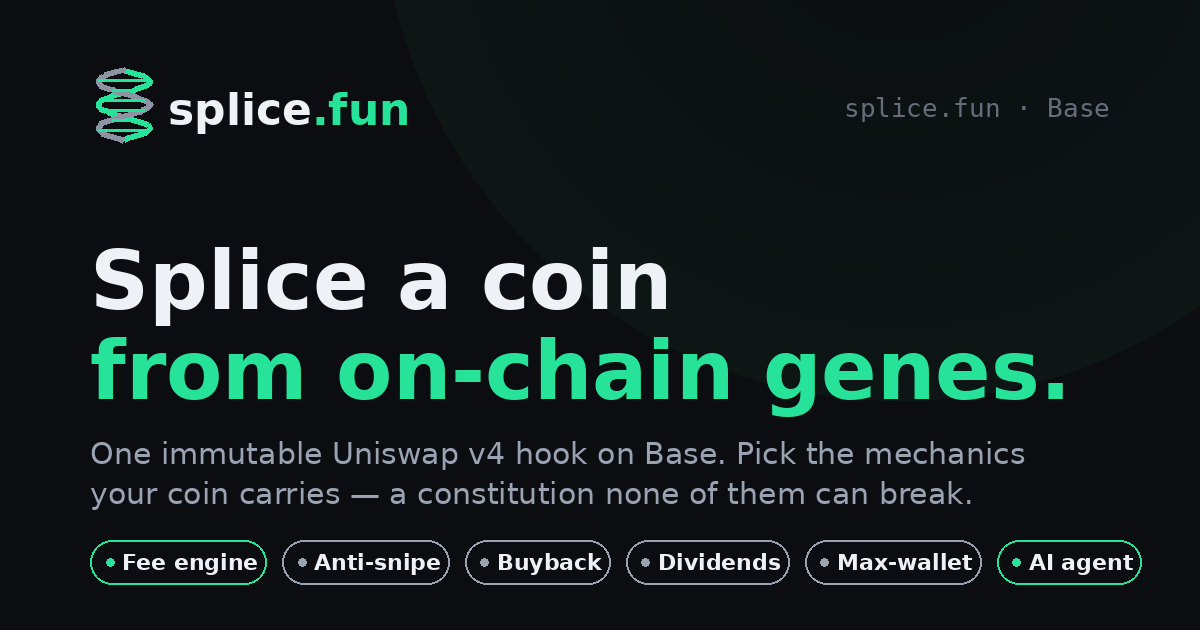
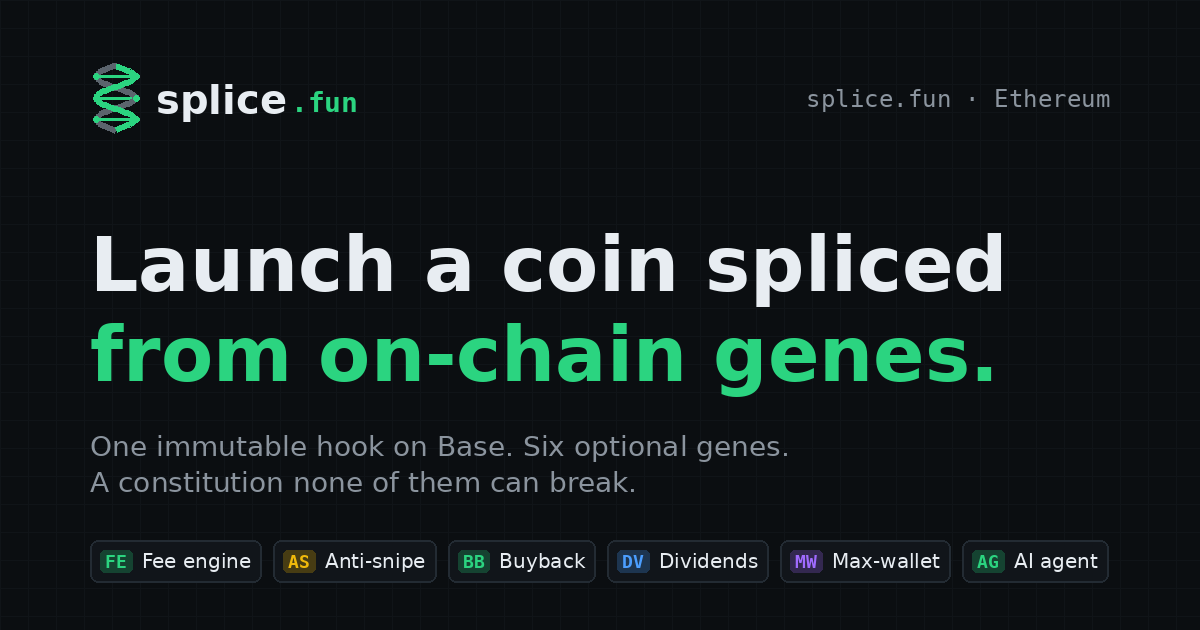
Splice: move the site to Ethereum mainnet
The launchpad targets Ethereum mainnet, not Base: chainId 1, Etherscan,
mainnet WETH and the v4 PoolManager (0x0000...4444c5dc75cB358380D2e3dE08A90),
mainnet RPCs, 12s block math for the preview engine (block height, launch
blocks, anti-snipe countdowns, max-wallet lift), and every "on Base" string
in copy, notices, hints and the TV datafeed now says Ethereum. og card
regenerated.

Claude-Session: https://claude.ai/code/session_018647HdkJmRvZZjLKjj8BXD

diff --git a/web/splice/site/js/ui.js b/web/splice/site/js/ui.js
@@ -5,7 +5,7 @@
   const $$ = (s, r) => [...(r || document).querySelectorAll(s)];
   const esc = s => String(s == null ? '' : s).replace(/[&<>"']/g, c => ({ '&': '&amp;', '<': '&lt;', '>': '&gt;', '"': '&quot;', "'": '&#39;' }[c]));
   const CFG = window.SPLICE || {};
-  const EXPLORER = CFG.explorer || 'https://basescan.org';
+  const EXPLORER = CFG.explorer || 'https://etherscan.io';
 
   const P = {
     search: '<circle cx="11" cy="11" r="8"/><path d="m21 21-4.3-4.3"/>',
@@ -124,7 +124,7 @@
     const r = anchor.getBoundingClientRect(); m.style.top = (r.bottom + scrollY + 8) + 'px'; m.style.left = Math.max(12, Math.min(innerWidth - m.offsetWidth - 12, r.right - m.offsetWidth)) + 'px';
     setTimeout(() => document.addEventListener('mousedown', function off(e) { if (!m.contains(e.target)) { m.remove(); document.removeEventListener('mousedown', off); } }), 0); return m; }
   async function copy(text, label) { try { await navigator.clipboard.writeText(text); toast((label || 'Address') + ' copied'); } catch { toast('Copy failed', { err: true }); } }
-  const notLive = () => toast('Preview: launching and trading open when the Splice hook goes live on Base.', {});
+  const notLive = () => toast('Preview: launching and trading open when the Splice hook goes live on Ethereum.', {});
 
   // ------------------------------------------------------------ theme
   function applyTheme(t) { const r = document.documentElement; if (t === 'light' || t === 'dark') r.setAttribute('data-theme', t); else r.removeAttribute('data-theme');
@@ -136,14 +136,14 @@
 
   // ------------------------------------------------------------ wallet button
   function paintWallet() { const w = window.spWallet; $$('[data-connect]').forEach(b => {
-    if (w && w.connected) { const wrong = w.chainId && w.chainId !== (CFG.chainId || 8453); b.classList.remove('accent');
-      b.innerHTML = wrong ? 'Switch to Base' : `<span class="mono">${esc(short(w.address))}</span>`; }
+    if (w && w.connected) { const wrong = w.chainId && w.chainId !== (CFG.chainId || 1); b.classList.remove('accent');
+      b.innerHTML = wrong ? 'Switch to Ethereum' : `<span class="mono">${esc(short(w.address))}</span>`; }
     else { b.classList.add('accent'); b.textContent = 'Connect'; } }); }
   function walletClick(e) { const w = window.spWallet; const b = e.currentTarget;
     if (!w) return notLive();
     if (!w.connected) return w.open ? w.open() : notLive();
-    if (w.chainId && w.chainId !== (CFG.chainId || 8453)) return w.switchChain && w.switchChain();
-    const m = menu(b, `<a href="/portfolio">${ic('wallet')}Portfolio</a><button data-copy>${ic('copy')}Copy address</button><a href="${addrLink(w.address)}" target="_blank" rel="noopener">${ic('ext')}Basescan</a><hr><button data-out>${ic('logout')}Disconnect</button>`);
+    if (w.chainId && w.chainId !== (CFG.chainId || 1)) return w.switchChain && w.switchChain();
+    const m = menu(b, `<a href="/portfolio">${ic('wallet')}Portfolio</a><button data-copy>${ic('copy')}Copy address</button><a href="${addrLink(w.address)}" target="_blank" rel="noopener">${ic('ext')}Etherscan</a><hr><button data-out>${ic('logout')}Disconnect</button>`);
     m.querySelector('[data-copy]').onclick = () => { copy(w.address); m.remove(); };
     m.querySelector('[data-out]').onclick = () => { w.logout && w.logout(); m.remove(); }; }
 
@@ -181,7 +181,7 @@
     document.addEventListener('keydown', e => { if ((e.metaKey || e.ctrlKey) && e.key.toLowerCase() === 'k') { e.preventDefault(); openSearch(); } });
     window.addEventListener('sp:wallet', paintWallet);
     if (CFG.prelaunch && !/^\/docs/.test(location.pathname)) { const pg = $('#page'); if (pg) pg.insertAdjacentHTML('afterbegin',
-      `<div class="notice">${ic('info')}<span><b>Preview.</b> Coins, prices and trades here are a deterministic sample, not live chain data. Launching and trading open when the Splice hook goes live on Base.</span></div>`); }
+      `<div class="notice">${ic('info')}<span><b>Preview.</b> Coins, prices and trades here are a deterministic sample, not live chain data. Launching and trading open when the Splice hook goes live on Ethereum.</span></div>`); }
   }
   if (document.readyState === 'loading') document.addEventListener('DOMContentLoaded', init); else init();
 

diff --git a/web/splice/site/js/data.js b/web/splice/site/js/data.js
@@ -82,7 +82,7 @@
   ];
 
   const now0 = Math.floor(Date.now() / 1000);
-  const GLOBAL_BLOCK0 = 24_500_000;             // a believable recent Base block
+  const GLOBAL_BLOCK0 = 26_350_000;             // a believable recent Ethereum block
   const COINS = SAMPLES.map(([name, symbol, dir, genes, color, freshMins], idx) => {
     const r = rngFor(symbol + name);
     const ageHrs = freshMins ? +(freshMins / 60).toFixed(3) : +(0.6 + r() * 220).toFixed(1);
@@ -102,7 +102,7 @@
       createdTs, ageHrs, genes, params,
       feeMode: params.fee.mode, feeBps: params.fee.baseBps,
       creator: addrFrom(r),
-      launchBlock: GLOBAL_BLOCK0 - Math.round(ageHrs * 1800),   // ~2s blocks on Base
+      launchBlock: GLOBAL_BLOCK0 - Math.round(ageHrs * 300),    // ~12s blocks on Ethereum
       socials: { x: 'splice_' + symbol.toLowerCase(), tg: r() > 0.4 ? 'splice_' + symbol.toLowerCase() : null, web: r() > 0.7 ? symbol.toLowerCase() + '.xyz' : null },
       _seed: hash(symbol + name),
     };
@@ -263,7 +263,7 @@
   const tapeFeed = [];
   function step() {
     tickN++;
-    if (tickN % 2 === 0) BLOCK += 1;
+    if (tickN % 8 === 0) BLOCK += 1;   // ~12s blocks
     const touched = [];
     COINS.forEach(c => {
       const r = mulberry(c._seed ^ (tickN * 2654435761));
@@ -271,7 +271,7 @@
       const drift = (c.dir / 100) * 0.015 + (c.price0 - c.price) / c.price0 * 0.02;
       const move = (r() - 0.5) * 0.012 + drift;
       if (r() < 0.6) { c.price = Math.max(c.price0 * 0.3, c.price * (1 + move)); c.mc = Math.round(c.price * 1e9); c.fdv = c.mc; c.c24 = c.c24 * 0.995 + move * 100 * 0.6; touched.push(c); }
-      if (c.params.maxw) { c.protected = c.ageHrs + tickN / 1800 < c.params.maxw.liftHrs; }
+      if (c.params.maxw) { c.protected = c.ageHrs + tickN / 2400 < c.params.maxw.liftHrs; }
       if (c.params.buyback && r() < 0.1) c.params.buyback.poolEth = +Math.min(c.params.buyback.thresholdEth, c.params.buyback.poolEth + r() * 0.01).toFixed(4);
     });
     // occasionally emit a trade onto the tape

diff --git a/web/splice/site/pages/docs.html b/web/splice/site/pages/docs.html
@@ -1,7 +1,7 @@
 <!--{"title": "How Splice works · Splice", "nav": "docs", "scripts": ["docs.js"]}-->
 <article class="doc">
   <h1>How Splice works</h1>
-  <p class="lead">Splice is a launchpad on Base. Every coin is spliced from composable on-chain mechanics called <b>genes</b>, and they live in one immutable Uniswap&nbsp;v4 hook. The hook enforces a constitution no coin can break; each launch then chooses which optional genes to carry.</p>
+  <p class="lead">Splice is a launchpad on Ethereum. Every coin is spliced from composable on-chain mechanics called <b>genes</b>, and they live in one immutable Uniswap&nbsp;v4 hook. The hook enforces a constitution no coin can break; each launch then chooses which optional genes to carry.</p>
 
   <h2>One hook, not one contract per idea</h2>
   <p>Most launchpads ship a single fixed mechanic. Splice ships one audited hook that supports every mechanic as a per-coin option. A creator picks genes at launch; the hook reads them and clamps them to constitutional bounds in the swap path. Nothing about the safety core is upgradeable. The only choice is which genes a coin turns on.</p>
@@ -23,5 +23,5 @@
   <h2>Liquidity</h2>
   <p>Launch liquidity is paired with ETH and minted to a locker. It can never be pulled; only fees are ever collected. There is no bonding curve and no migration step: a coin trades in a real v4 pool from block zero.</p>
 
-  <p class="faint" style="margin-top:40px">Splice is in preview. Contracts, addresses and audits are published here before anything goes live on Base.</p>
+  <p class="faint" style="margin-top:40px">Splice is in preview. Contracts, addresses and audits are published here before anything goes live on Ethereum.</p>
 </article>

diff --git a/web/splice/site/js/coin.js b/web/splice/site/js/coin.js
@@ -120,7 +120,7 @@
       <div class="coin-bar">
         ${avatar(c)}
         <div class="cb-id"><h1>${esc(c.name)} <small>$${esc(c.symbol)}</small></h1>
-          <div class="cb-meta"><span class="spec tagline">${esc(c.spec)} · seq. block ${c.launchBlock.toLocaleString('en-US')}</span><button class="btn ghost sm" id="copyaddr"><span class="mono">${short(c.addr)}</span></button><a class="btn ghost sm" href="${addrLink(c.addr)}" target="_blank" rel="noopener">Basescan ↗</a>${soc}</div>
+          <div class="cb-meta"><span class="spec tagline">${esc(c.spec)} · seq. block ${c.launchBlock.toLocaleString('en-US')}</span><button class="btn ghost sm" id="copyaddr"><span class="mono">${short(c.addr)}</span></button><a class="btn ghost sm" href="${addrLink(c.addr)}" target="_blank" rel="noopener">Etherscan ↗</a>${soc}</div>
         </div>
         <div class="cb-helix">${helix(c.genes, { w: 150, h: 48 })}</div>
         <div class="px"><b class="num" data-price>${usd(c.price, { compact: false })}</b><span data-pxdelta>${delta(c.c24)}</span></div>
@@ -131,7 +131,7 @@
         <div class="stat-key"><span>Liquidity</span><b>${usd(c.liq)}</b><small>locked</small></div>
         <div class="stat-key"><span>Volume 24h</span><b class="num" data-vol>${usd(c.vol24)}</b></div>
         <div class="stat-key"><span>Holders</span><b>${num(c.holders, 0)}</b></div>
-        <div class="stat-key"><span>Age</span><b>${ago(c.createdTs)}</b><small>on Base</small></div>
+        <div class="stat-key"><span>Age</span><b>${ago(c.createdTs)}</b><small>on Ethereum</small></div>
       </div>
       <div class="coin-cols">
         <div class="cc-chart"><div class="bigchart" id="chart"></div></div>

diff --git a/web/splice/site/js/tv.js b/web/splice/site/js/tv.js
@@ -27,7 +27,7 @@
   });
 
   const datafeed = {
-    onReady(cb) { setTimeout(() => cb({ supported_resolutions: Object.keys(RES), supports_marks: false, supports_timescale_marks: false, supports_time: true, exchanges: [{ value: 'splice.fun', name: 'splice.fun', desc: 'Uniswap v4 on Base' }], symbols_types: [{ name: 'crypto', value: 'crypto' }] }), 0); },
+    onReady(cb) { setTimeout(() => cb({ supported_resolutions: Object.keys(RES), supports_marks: false, supports_timescale_marks: false, supports_time: true, exchanges: [{ value: 'splice.fun', name: 'splice.fun', desc: 'Uniswap v4 on Ethereum' }], symbols_types: [{ name: 'crypto', value: 'crypto' }] }), 0); },
     searchSymbols(q, ex, type, cb) { cb([{ symbol: symName(), full_name: 'splice.fun:' + symName(), description: X ? X.name : '', exchange: 'splice.fun', ticker: symName(), type: 'crypto' }]); },
     resolveSymbol(name, ok) {
       mode = /·MCAP/.test(name) ? 'mcap' : 'price'; unit = /·ETH/.test(name) ? 'ETH' : 'USD';

diff --git a/web/splice/site/pages/launch.html b/web/splice/site/pages/launch.html
@@ -6,7 +6,7 @@
 <div class="launch">
   <div>
     <div class="panel">
-      <div class="panel-h"><span class="no">1</span><h2>Identity</h2><span class="hint">on Base, paired with ETH</span></div>
+      <div class="panel-h"><span class="no">1</span><h2>Identity</h2><span class="hint">on Ethereum, paired with ETH</span></div>
       <div class="panel-b">
         <div class="idrow">
           <button type="button" class="imgpick" id="imgpick" aria-label="Upload a coin image">
@@ -54,7 +54,7 @@
         <div id="preview-card"></div>
         <div class="facts" style="margin:16px 0">
           <div><span>Supply</span><b>1,000,000,000</b></div>
-          <div><span>Pair</span><b>ETH · Base</b></div>
+          <div><span>Pair</span><b>ETH · Mainnet</b></div>
           <div><span>Fee</span><b id="pv-fee">~1%</b></div>
           <div><span>Genes</span><b id="pv-genecount">1</b></div>
         </div>

diff --git a/web/splice/site/pages/index.html b/web/splice/site/pages/index.html
@@ -1,7 +1,7 @@
-<!--{"title": "Splice · genes launchpad on Base", "nav": "explore", "scripts": ["home.js"]}-->
+<!--{"title": "Splice · genes launchpad on Ethereum", "nav": "explore", "scripts": ["home.js"]}-->
 <div class="intro">
   <div class="intro-t">
-    <h1>Splice is a genes launchpad on Base</h1>
+    <h1>Splice is a genes launchpad on Ethereum</h1>
     <p>Launch a coin spliced from on-chain genes: fee engine, anti-snipe, buyback, dividends, max-wallet, AI agent. One immutable hook, a constitution no gene can break.</p>
   </div>
   <div class="btns">

diff --git a/web/splice/build.py b/web/splice/build.py
@@ -3,7 +3,7 @@
 
     python3 build.py              # preview: sample coins (contracts not deployed yet)
 
-Splice is a launchpad on Base where every coin is spliced from composable on-chain
+Splice is a launchpad on Ethereum where every coin is spliced from composable on-chain
 "genes" (fee, anti-snipe, buyback, dividends, MEV-tax, max-wallet, agent). One immutable
 hook enforces a constitution no gene can break; each launch picks the genes it wants.
 """
@@ -14,7 +14,7 @@ SITE = os.path.join(HERE, 'site')
 DIST = os.path.join(HERE, 'dist')
 SITE_URL = os.environ.get('SITE_URL', 'https://splice.fun').rstrip('/')
 X_HANDLE = os.environ.get('X_HANDLE', 'splicefun')
-DESC = 'Launch a coin on Base spliced from composable on-chain genes: anti-snipe, buyback, dividends, MEV-tax, max-wallet, an optional AI agent. One immutable hook, a constitution no gene can break.'
+DESC = 'Launch a coin on Ethereum spliced from composable on-chain genes: anti-snipe, buyback, dividends, MEV-tax, max-wallet, an optional AI agent. One immutable hook, a constitution no gene can break.'
 
 FONTS = 'https://fonts.googleapis.com/css2?family=Bricolage+Grotesque:opsz,wght@12..96,600;12..96,700;12..96,800&family=Instrument+Sans:wght@400;500;600;700&family=Martian+Mono:wght@400;500;600&display=swap'
 NAV = [('explore', '/', 'Explore'), ('launch', '/launch', 'Launch'), ('portfolio', '/portfolio', 'Portfolio'), ('docs', '/docs', 'Docs')]
@@ -40,10 +40,10 @@ def ic(n):
 
 def config():
     cfg = {
-        'chainId': 8453, 'chainName': 'Base', 'explorer': 'https://basescan.org',
-        'rpcs': os.environ['RPCS'].split(',') if os.environ.get('RPCS') else ['https://base-rpc.publicnode.com', 'https://mainnet.base.org'],
-        'weth': '0x4200000000000000000000000000000000000006',
-        'poolManager': '0x498581fF718922c3f8e6A244956aF099B2652b2b',
+        'chainId': 1, 'chainName': 'Ethereum', 'explorer': 'https://etherscan.io',
+        'rpcs': os.environ['RPCS'].split(',') if os.environ.get('RPCS') else ['https://ethereum-rpc.publicnode.com', 'https://eth.llamarpc.com'],
+        'weth': '0xC02aaA39b223FE8D0A0e5C4F27eAD9083C756Cc2',
+        'poolManager': '0x000000000004444c5dc75cB358380D2e3dE08A90',
         'contracts': {}, 'prelaunch': True,
         'admin': os.environ.get('ADMIN', '0x5DdDEa56774f01fc9d207BBD7B7633596a2f4A0b'),
         'reownProjectId': os.environ.get('REOWN_PROJECT_ID', '5b1ae833abd22d348cbf5d53cf58b3b2'),
@@ -112,7 +112,7 @@ def shell(meta, body):
 <footer class="foot">
   <div class="foot-in">
     <a class="brand sm" href="/">{MARK}{WORDMARK}</a>
-    <span class="net">{ETH_GLYPH}Base</span>
+    <span class="net">{ETH_GLYPH}Ethereum</span>
     <nav aria-label="Footer"><a href="/docs">Docs</a><a href="/docs#genes">Genes</a><a href="/launch">Launch</a>{x_foot}</nav>
   </div>
 </footer>
